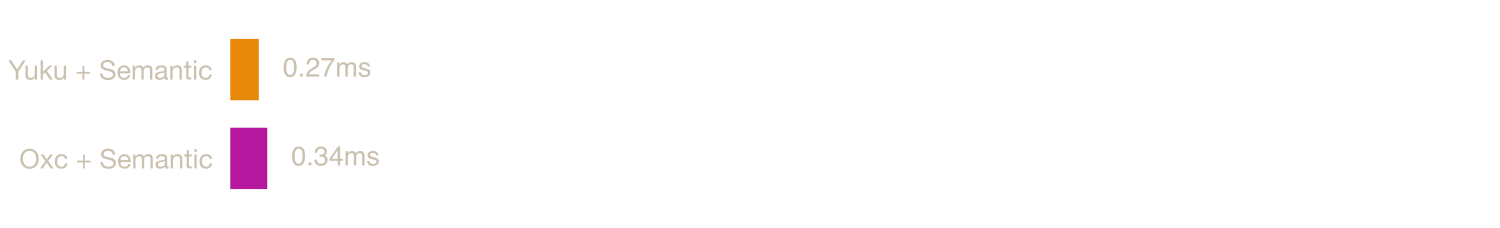
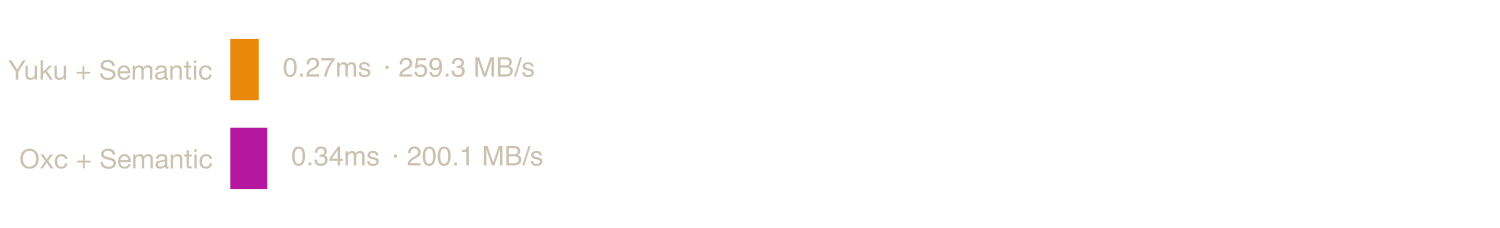
include mb/s in charts

Changed region(s): [[0.2453, 0.2456, 0.368, 0.3377], [0.276, 0.6447, 0.368, 0.7368]]

diff --git a/scripts/generate-readme.ts b/scripts/generate-readme.ts
@@ -127,7 +127,11 @@ function getParserEntries(data: { results: BenchmarkResult[] }, semantic: boolea
   return entries;
 }
 
-async function generateChart(entries: ParserEntry[], chartName: string): Promise<string> {
+async function generateChart(
+  entries: ParserEntry[],
+  chartName: string,
+  fileSize: number,
+): Promise<string> {
   const data = entries.filter((e) => e.result != null);
   if (data.length === 0) return "";
 
@@ -200,11 +204,23 @@ async function generateChart(entries: ParserEntry[], chartName: string): Promise
             const bar = meta.data[i];
             const value = dataset.data[i] as number;
             ctx.save();
-            ctx.fillStyle = "#CAC1B0";
             ctx.font = `${9 * dpr}px sans-serif`;
-            ctx.textAlign = "left";
             ctx.textBaseline = "middle";
-            ctx.fillText(`${value.toFixed(2)}ms`, bar.x + 8 * dpr, bar.y);
+            ctx.fillStyle = "#CAC1B0";
+            ctx.textAlign = "left";
+            const msLabel = `${value.toFixed(2)}ms`;
+            ctx.fillText(msLabel, bar.x + 8 * dpr, bar.y);
+            const throughput = formatThroughput(fileSize, value / 1000);
+            const barWidth = bar.x - (bar as unknown as { base: number }).base;
+            if (barWidth >= ctx.measureText(throughput).width + 16 * dpr) {
+              ctx.font = `${8 * dpr}px sans-serif`;
+              ctx.fillStyle = "rgba(255, 255, 255, 0.75)";
+              ctx.textAlign = "right";
+              ctx.fillText(throughput, bar.x - 8 * dpr, bar.y);
+            } else {
+              const msWidth = ctx.measureText(msLabel).width;
+              ctx.fillText(`· ${throughput}`, bar.x + 8 * dpr + msWidth + 4 * dpr, bar.y);
+            }
             ctx.restore();
           }
         },
@@ -220,10 +236,10 @@ async function generateChart(entries: ParserEntry[], chartName: string): Promise
   return `charts/${chartName}.png`;
 }
 
-function generateTable(entries: ParserEntry[], fileSize: number): string {
+function generateTable(entries: ParserEntry[]): string {
   const lines = [
-    "| Parser | Median | Min | p99 | Throughput | Relative |",
-    "|--------|--------|-----|-----|------------|----------|",
+    "| Parser | Median | Min | p99 | Relative |",
+    "|--------|--------|-----|-----|----------|",
   ];
 
   const fastest = entries.reduce<number | null>(
@@ -233,12 +249,12 @@ function generateTable(entries: ParserEntry[], fileSize: number): string {
 
   for (const { name, result } of entries) {
     if (!result) {
-      lines.push(`| ${name} | Failed to parse | - | - | - | - |`);
+      lines.push(`| ${name} | Failed to parse | - | - | - |`);
       continue;
     }
     const relative = fastest ? `${(result.median / fastest).toFixed(2)}×` : "-";
     lines.push(
-      `| ${name} | ${formatTime(result.median)} | ${formatTime(result.min)} | ${formatTime(result.p99)} | ${formatThroughput(fileSize, result.median)} | ${relative} |`,
+      `| ${name} | ${formatTime(result.median)} | ${formatTime(result.min)} | ${formatTime(result.p99)} | ${relative} |`,
     );
   }
 
@@ -260,13 +276,13 @@ async function generateBenchmarksSection(): Promise<string> {
     lines.push(`**File size:** ${formatBytes(fileSize)}`);
     lines.push("");
 
-    const chartPath = await generateChart(entries, fileKey);
+    const chartPath = await generateChart(entries, fileKey, fileSize);
     if (chartPath) {
       lines.push(`![Bar chart comparing native parser speeds for ${fileName}](${chartPath})`);
       lines.push("");
     }
 
-    lines.push(generateTable(entries, fileSize));
+    lines.push(generateTable(entries));
     lines.push("");
   }
 
@@ -302,7 +318,7 @@ async function generateSemanticSection(): Promise<string> {
     lines.push(`### [${fileName}](${file.source_url})`);
     lines.push("");
 
-    const chartPath = await generateChart(entries, `${fileKey}_semantic`);
+    const chartPath = await generateChart(entries, `${fileKey}_semantic`, fileSize);
     if (chartPath) {
       lines.push(
         `![Bar chart comparing parser speeds with semantic analysis for ${fileName}](${chartPath})`,
@@ -310,7 +326,7 @@ async function generateSemanticSection(): Promise<string> {
       lines.push("");
     }
 
-    lines.push(generateTable(entries, fileSize));
+    lines.push(generateTable(entries));
     lines.push("");
   }
 

diff --git a/README.md b/README.md
@@ -39,11 +39,11 @@ An extensible Rust-based platform for compiling and bundling JavaScript and Type
 
 ![Bar chart comparing native parser speeds for typescript.js](charts/typescript.png)
 
-| Parser | Median | Min | p99 | Throughput | Relative |
-|--------|--------|-----|-----|------------|----------|
-| Yuku | 19.40 ms | 19.30 ms | 41.43 ms | 403.5 MB/s | 1.00× |
-| Oxc | 23.87 ms | 23.80 ms | 24.54 ms | 327.9 MB/s | 1.23× |
-| SWC | 41.55 ms | 40.85 ms | 45.12 ms | 188.4 MB/s | 2.14× |
+| Parser | Median | Min | p99 | Relative |
+|--------|--------|-----|-----|----------|
+| Yuku | 19.40 ms | 19.30 ms | 41.43 ms | 1.00× |
+| Oxc | 23.87 ms | 23.80 ms | 24.54 ms | 1.23× |
+| SWC | 41.55 ms | 40.85 ms | 45.12 ms | 2.14× |
 
 ### [checker.ts](https://raw.githubusercontent.com/yuku-toolchain/parser-benchmark-files/refs/heads/main/checker.ts)
 
@@ -51,11 +51,11 @@ An extensible Rust-based platform for compiling and bundling JavaScript and Type
 
 ![Bar chart comparing native parser speeds for checker.ts](charts/checker.png)
 
-| Parser | Median | Min | p99 | Throughput | Relative |
-|--------|--------|-----|-----|------------|----------|
-| Yuku | 6.62 ms | 6.59 ms | 6.74 ms | 446.2 MB/s | 1.00× |
-| Oxc | 7.73 ms | 7.69 ms | 8.50 ms | 382.1 MB/s | 1.17× |
-| SWC | 13.31 ms | 13.11 ms | 15.04 ms | 222.0 MB/s | 2.01× |
+| Parser | Median | Min | p99 | Relative |
+|--------|--------|-----|-----|----------|
+| Yuku | 6.62 ms | 6.59 ms | 6.74 ms | 1.00× |
+| Oxc | 7.73 ms | 7.69 ms | 8.50 ms | 1.17× |
+| SWC | 13.31 ms | 13.11 ms | 15.04 ms | 2.01× |
 
 ### [react.js](https://raw.githubusercontent.com/yuku-toolchain/parser-benchmark-files/refs/heads/main/react.js)
 
@@ -63,11 +63,11 @@ An extensible Rust-based platform for compiling and bundling JavaScript and Type
 
 ![Bar chart comparing native parser speeds for react.js](charts/react.png)
 
-| Parser | Median | Min | p99 | Throughput | Relative |
-|--------|--------|-----|-----|------------|----------|
-| Yuku | 0.12 ms | 0.12 ms | 0.13 ms | 575.5 MB/s | 1.00× |
-| Oxc | 0.16 ms | 0.16 ms | 0.17 ms | 432.7 MB/s | 1.33× |
-| SWC | 0.27 ms | 0.27 ms | 0.29 ms | 253.0 MB/s | 2.27× |
+| Parser | Median | Min | p99 | Relative |
+|--------|--------|-----|-----|----------|
+| Yuku | 0.12 ms | 0.12 ms | 0.13 ms | 1.00× |
+| Oxc | 0.16 ms | 0.16 ms | 0.17 ms | 1.33× |
+| SWC | 0.27 ms | 0.27 ms | 0.29 ms | 2.27× |
 
 ## Semantic
 
@@ -81,28 +81,28 @@ The benchmarks below measure parsing followed by this additional pass, which bui
 
 ![Bar chart comparing parser speeds with semantic analysis for typescript.js](charts/typescript_semantic.png)
 
-| Parser | Median | Min | p99 | Throughput | Relative |
-|--------|--------|-----|-----|------------|----------|
-| Yuku + Semantic | 41.77 ms | 41.44 ms | 44.46 ms | 187.4 MB/s | 1.00× |
-| Oxc + Semantic | 55.29 ms | 53.53 ms | 88.67 ms | 141.6 MB/s | 1.32× |
+| Parser | Median | Min | p99 | Relative |
+|--------|--------|-----|-----|----------|
+| Yuku + Semantic | 41.77 ms | 41.44 ms | 44.46 ms | 1.00× |
+| Oxc + Semantic | 55.29 ms | 53.53 ms | 88.67 ms | 1.32× |
 
 ### [checker.ts](https://raw.githubusercontent.com/yuku-toolchain/parser-benchmark-files/refs/heads/main/checker.ts)
 
 ![Bar chart comparing parser speeds with semantic analysis for checker.ts](charts/checker_semantic.png)
 
-| Parser | Median | Min | p99 | Throughput | Relative |
-|--------|--------|-----|-----|------------|----------|
-| Yuku + Semantic | 14.77 ms | 14.68 ms | 14.91 ms | 200.0 MB/s | 1.00× |
-| Oxc + Semantic | 18.03 ms | 17.91 ms | 18.35 ms | 163.8 MB/s | 1.22× |
+| Parser | Median | Min | p99 | Relative |
+|--------|--------|-----|-----|----------|
+| Yuku + Semantic | 14.77 ms | 14.68 ms | 14.91 ms | 1.00× |
+| Oxc + Semantic | 18.03 ms | 17.91 ms | 18.35 ms | 1.22× |
 
 ### [react.js](https://raw.githubusercontent.com/yuku-toolchain/parser-benchmark-files/refs/heads/main/react.js)
 
 ![Bar chart comparing parser speeds with semantic analysis for react.js](charts/react_semantic.png)
 
-| Parser | Median | Min | p99 | Throughput | Relative |
-|--------|--------|-----|-----|------------|----------|
-| Yuku + Semantic | 0.27 ms | 0.26 ms | 0.28 ms | 259.3 MB/s | 1.00× |
-| Oxc + Semantic | 0.34 ms | 0.34 ms | 0.35 ms | 200.1 MB/s | 1.30× |
+| Parser | Median | Min | p99 | Relative |
+|--------|--------|-----|-----|----------|
+| Yuku + Semantic | 0.27 ms | 0.26 ms | 0.28 ms | 1.00× |
+| Oxc + Semantic | 0.34 ms | 0.34 ms | 0.35 ms | 1.30× |
 
 ## Run Benchmarks
 
